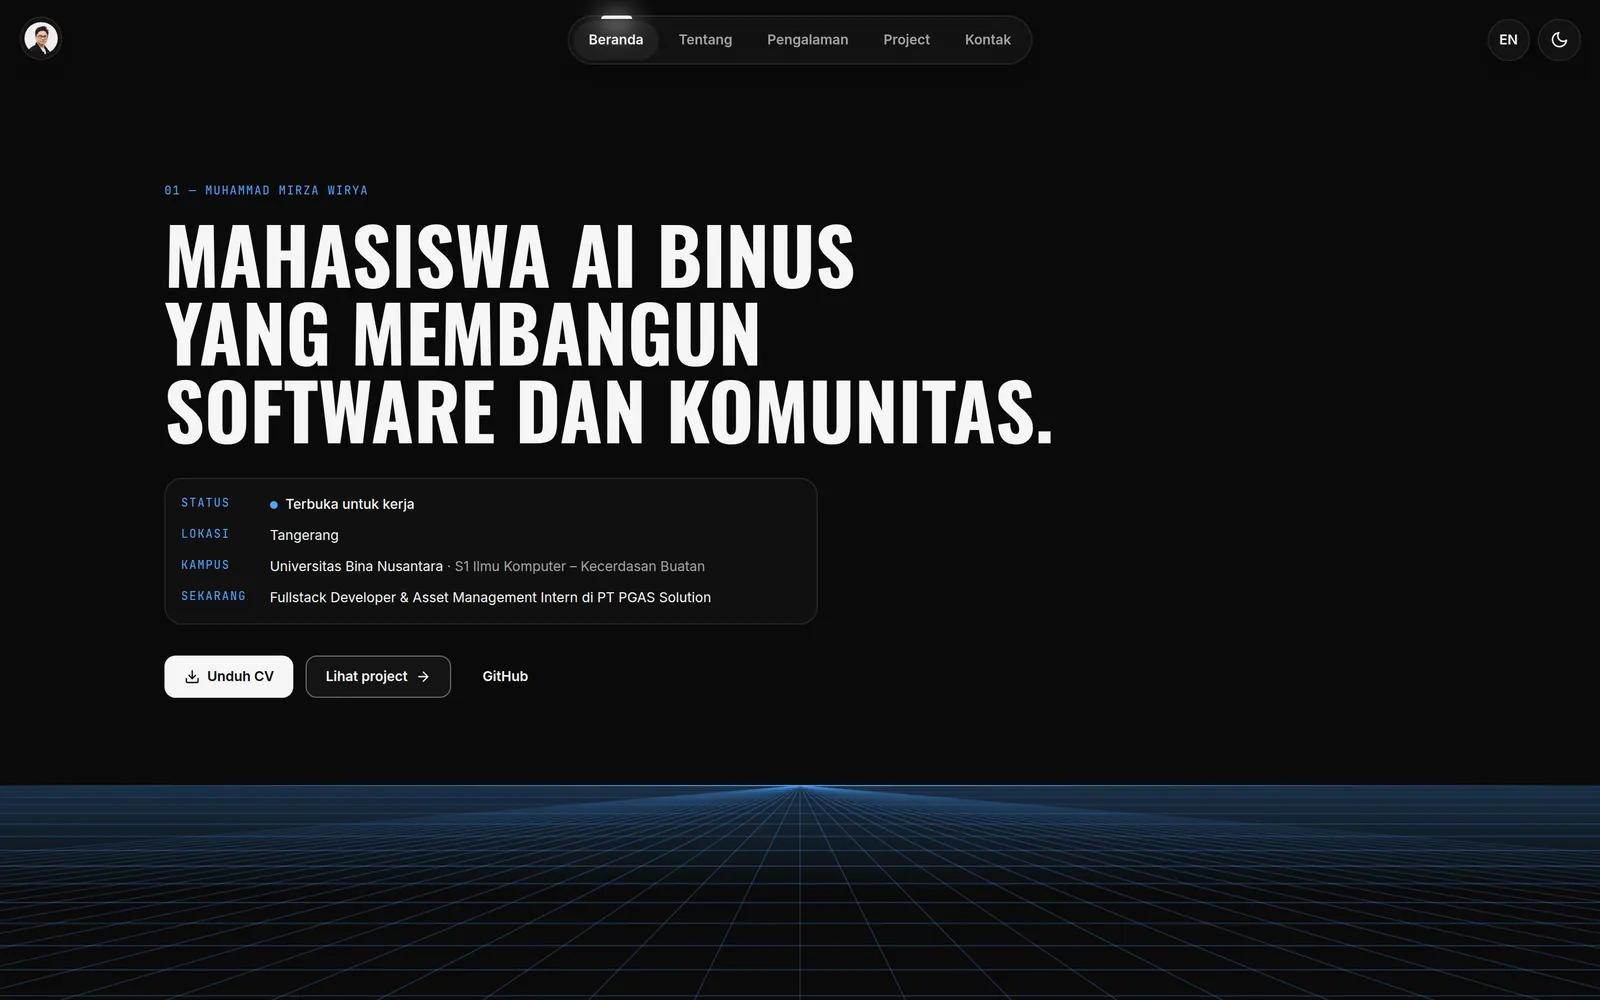
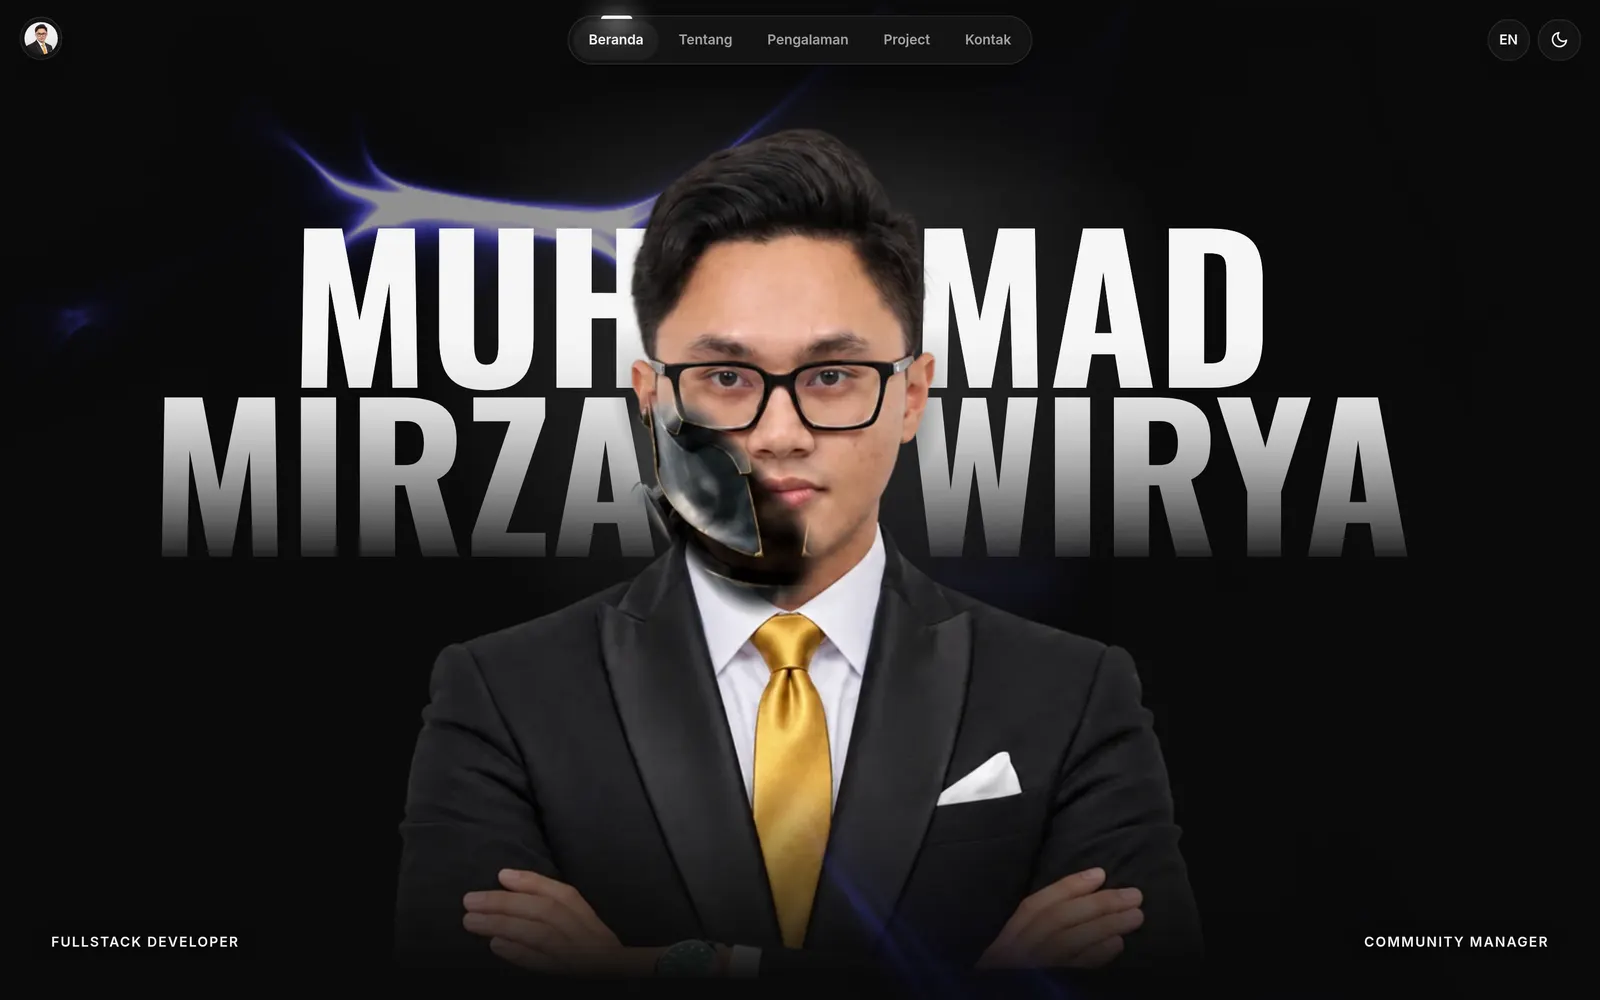
[CLAUDIA] chore: hapus ClickSound, getPublicHighlights, dan dependency pg yang tidak dipakai; perbarui tangkapan layar README

diff --git a/Frontend/src/app/globals.css b/Frontend/src/app/globals.css
@@ -2003,7 +2003,7 @@
   user-select: none;
 }
 
-/* 10. tombol berkilau (bunyi klik dari ClickSound) */
+/* 10. tombol berkilau (tanpa suara sejak revisi 2026-10-09) */
 .pj-shine {
   position: relative;
   overflow: hidden;

diff --git a/README.md b/README.md
@@ -6,14 +6,14 @@ Website portofolio pribadi dua bahasa (ID/EN) dengan panel Super Admin untuk men
 
 <picture>
   <source media="(prefers-color-scheme: dark)" srcset="Documentation/screenshots/home-dark.webp">
-  <img src="Documentation/screenshots/home-light.webp" alt="Halaman awal mmirza.site: judul besar Mahasiswa AI BINUS yang membangun software dan komunitas, pelat status, tombol Unduh CV dan Lihat project, dengan latar garis cakrawala biru" width="100%">
+  <img src="Documentation/screenshots/home-light.webp" alt="Halaman awal mmirza.site: nama besar MUHAMMAD MIRZA WIRYA di belakang foto Mirza berjas, sebagian rahang memperlihatkan armor, tulisan Fullstack Developer dan Community Manager di bawah, dengan latar pusaran cahaya biru" width="100%">
 </picture>
 
 <p align="center">
-  <img src="Documentation/screenshots/home-mobile.webp" alt="Halaman awal mmirza.site di HP, mode gelap, dengan menu ikon di bawah layar" width="270">
+  <img src="Documentation/screenshots/home-mobile.webp" alt="Halaman awal mmirza.site di HP, mode gelap: nama di atas foto, dua peran di bawah foto, dan menu ikon di bawah layar" width="270">
 </p>
 
-<sub>Tangkapan layar halaman awal (10 Oktober 2026). Gambar besar mengikuti tema GitHub Anda: gelap atau terang.</sub>
+<sub>Tangkapan layar halaman awal (20 Oktober 2026). Gambar besar mengikuti tema GitHub Anda: gelap atau terang.</sub>
 
 **Status:** live di `mmirza.site` sejak 1 Oktober 2026 (Vercel + Neon Singapura). Milestone 1–4 selesai, Milestone 5 tinggal tugas akun pemilik (Resend, UptimeRobot, ruleset, Search Console, secret backup) dan uji akhir rilis. Lihat [`Documentation/TODO.md`](Documentation/TODO.md).
 

diff --git a/Documentation/DESIGN.md b/Documentation/DESIGN.md
@@ -1237,3 +1237,14 @@ Laporan pemilik: menu bawah HP kadang hilang saat menggulir antarbagian beranda.
 - **Lapisan GPU sendiri** untuk navbar atas dan menu bawah (`.site-bar`: `translateZ(0)`, `will-change: transform`). Browser HP bisa menunda menggambar ulang elemen fixed/sticky saat halaman digulir di atas kanvas animasi dan lapisan bermasker.
 - **`#main` diberi `isolation: isolate`**, jadi z-index di dalam isi halaman (logo globe sampai ±300, menu kategori 400) tidak pernah bisa naik ke atas navbar (z-40).
 - **Tes E2E HP baru:** menggulir seluruh beranda per 250 px dengan menu kategori terbuka, lalu memastikan titik tengah menu bawah selalu milik menu itu sendiri.
+
+## 92. Audit kebersihan kode (2026-10-20)
+
+Pemindaian ulang berkas, ekspor, kelas CSS, kunci pesan, aset `public/`, dan dependency. Yang terbukti tidak dipakai dan dihapus:
+
+- `components/shared/click-sound.tsx` (`ClickSound`): tombol project tidak lagi berbunyi sejak revisi 2026-10-09 (bagian 52), komponennya tertinggal tanpa pemakai.
+- `features/highlights/public.ts` (`getPublicHighlights`): bagian "Dalam angka" sudah dihapus dari beranda. Admin → Angka dan tabel `Highlight` **tetap ada** (menunggu keputusan pemilik: dihapus permanen atau dipakai lagi).
+- Dependency langsung `pg` dan `@types/pg`: keduanya sudah dibawa `@prisma/adapter-pg` dan tidak diimpor langsung oleh kode.
+- Tangkapan layar README diganti dengan hero sekarang.
+
+Semua kelas CSS, kunci pesan ID/EN (termasuk kunci dinamis Privasi dan Newsletter), logo skill, dan gambar project masih dipakai.
